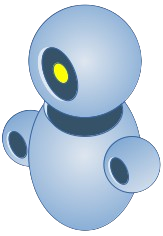
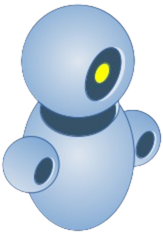
All images references removed from Entity.

diff --git a/game/src/main/java/chon/group/game/core/agent/Entity.java b/game/src/main/java/chon/group/game/core/agent/Entity.java
@@ -6,10 +6,6 @@ import java.util.List;
 import chon.group.game.animation.AnimationSet;
 import chon.group.game.animation.AnimationState;
 import chon.group.game.messaging.Message;
-import javafx.scene.SnapshotParameters;
-import javafx.scene.image.Image;
-import javafx.scene.image.ImageView;
-import javafx.scene.paint.Color;
 
 public abstract class Entity {
 
@@ -27,12 +23,6 @@ public abstract class Entity {
 
     /** entity speed. */
     protected int speed;
-
-    /** Image representing the entity. */
-    protected Image image;
-
-    /** Indicates if the entity is facing left. */
-    private boolean flipped = false;
 
     /** The initial entity's health. */
     private int health;
@@ -67,7 +57,7 @@ public abstract class Entity {
      * @param pathImage the path to the entity's image
      */
     public Entity(int posX, int posY, int height, int width, int speed, int health, Direction direction,
-            String pathImage, boolean flipped,
+            boolean flipped,
             boolean visibleBars) {
         /*
          * Every entity needs at least 1 point of health. Otherwise, it will be
@@ -83,8 +73,7 @@ public abstract class Entity {
         this.health = health;
         this.fullHealth = health;
         this.direction = direction;
-        this.image = new Image(getClass().getResource(pathImage).toExternalForm());
-        this.flipped = flipped;
+        this.getAnimationState().setFlipped(flipped);
         this.visibleBars = visibleBars;
     }
 
@@ -179,42 +168,6 @@ public abstract class Entity {
     }
 
     /**
-     * Gets the entity image.
-     *
-     * @return the entity image
-     */
-    public Image getImage() {
-        return image;
-    }
-
-    /**
-     * Gets the entity flipped status.
-     *
-     * @param image the new image
-     */
-    public void setImage(Image image) {
-        this.image = image;
-    }
-
-    /**
-     * Gets if the entity is flipped.
-     *
-     * @return if the entity is flipped
-     */
-    public boolean isFlipped() {
-        return flipped;
-    }
-
-    /**
-     * Sets the entity flipped status.
-     *
-     * @param flipped the new flipped status
-     */
-    public void setFlipped(boolean flipped) {
-        this.flipped = flipped;
-    }
-
-    /**
      * Gets the entity's health.
      *
      * @return the entity's health
@@ -291,58 +244,68 @@ public abstract class Entity {
     }
 
     /**
-     * Flips the Image horizontally.
-     */
-    public void flipImage() {
-        ImageView flippedImage = new ImageView(image);
-        flippedImage.setScaleX(-1);
-        SnapshotParameters params = new SnapshotParameters();
-        params.setFill(Color.TRANSPARENT);
-        this.flipped = !this.flipped;
-        this.image = flippedImage.snapshot(params, null);
-    }
-
-    /**
      * Moves the entity based on the movement commands provided.
      *
      * @param movements a list of movement directions ("RIGHT", "LEFT", "UP",
      *                  "DOWN")
      */
     public void move(List<Direction> movements) {
+        /* Removes contradictory movements: RIGHT+LEFT and UP+DOWN. */
+        if (movements.contains(Direction.RIGHT) && movements.contains(Direction.LEFT)) {
+            movements.remove(Direction.LEFT);
+        }
+        if (movements.contains(Direction.UP) && movements.contains(Direction.DOWN)) {
+            movements.remove(Direction.DOWN);
+        }
+        /* It verifies if the agent intends to move to the right. */
         if (movements.contains(Direction.RIGHT)) {
-            if (flipped) {
-                this.flipImage();
-                this.animationState.setFlipped(!this.animationState.isFlipped());
+            if (this.animationState.isFlipped()) {
+                this.animationState.setFlipped(false);
             }
+            /* It verifies if it is an up-diagonal movement. */
             if (movements.contains(Direction.RIGHT) && movements.contains(Direction.UP)) {
                 setPosY(posY -= speed);
                 setPosX(posX += speed);
-            } else if (movements.contains(Direction.RIGHT) && movements.contains(Direction.DOWN)) {
+            }
+            /* It verifies if it is a down-diagonal movement. */
+            else if (movements.contains(Direction.RIGHT) && movements.contains(Direction.DOWN)) {
                 setPosY(posY += speed);
                 setPosX(posX += speed);
-            } else {
+            }
+            /* Otherwise, it only has to move to the right. */
+            else {
                 setPosX(posX += speed);
                 setDirection(Direction.RIGHT);
             }
-        } else if (movements.contains(Direction.LEFT)) {
-            if (!flipped) {
-                this.flipImage();
-                this.animationState.setFlipped(!this.animationState.isFlipped());
+        }
+        /* It verifies if the agent intends to move to the left. */
+        if (movements.contains(Direction.LEFT)) {
+            if (!this.animationState.isFlipped()) {
+                this.animationState.setFlipped(true);
             }
+            /* It verifies if it is an up-diagonal movement. */
             if (movements.contains(Direction.LEFT) && movements.contains(Direction.UP)) {
                 setPosY(posY -= speed);
                 setPosX(posX -= speed);
-            } else if (movements.contains(Direction.LEFT) && movements.contains(Direction.DOWN)) {
+            }
+            /* It verifies if it is a down-diagonal movement. */
+            else if (movements.contains(Direction.LEFT) && movements.contains(Direction.DOWN)) {
                 setPosY(posY += speed);
                 setPosX(posX -= speed);
-            } else {
+            }
+            /* Otherwise, it only has to move to the right. */
+            else {
                 setPosX(posX -= speed);
                 setDirection(Direction.LEFT);
             }
-        } else if (movements.contains(Direction.UP)) {
+        }
+        /* It verifies if the agent intends to move up. */
+        else if (movements.contains(Direction.UP)) {
             setPosY(posY -= speed);
             setDirection(Direction.UP);
-        } else if (movements.contains(Direction.DOWN)) {
+        }
+        /* It verifies if the agent intends to move down. */
+        else if (movements.contains(Direction.DOWN)) {
             setPosY(posY += speed);
             setDirection(Direction.DOWN);
         }

diff --git a/game/src/main/java/chon/group/game/core/environment/Level.java b/game/src/main/java/chon/group/game/core/environment/Level.java
@@ -5,6 +5,8 @@ import chon.group.game.core.agent.Direction;
 import chon.group.game.core.agent.Entity;
 import chon.group.game.core.agent.Object;
 import chon.group.game.core.weapon.Shot;
+import javafx.scene.image.Image;
+
 import java.util.ArrayList;
 import java.util.List;
 
@@ -28,10 +30,14 @@ public class Level extends Entity {
     /** Total number of collectible objects in the environment. */
     private int totalCollectibleCount = 0;
 
+    /** Image representing the entity. */
+    protected Image image;
+
     public Level(int posX, int posY, int height, int width, int topY, int bottomY, String pathImage) {
-        super(posX, posY, height, width, 0, 0, Direction.IDLE, pathImage, false, false);
+        super(posX, posY, height, width, 0, 0, Direction.IDLE, false, false);
         this.topY = topY;
         this.bottomY = bottomY;
+        this.image = new Image(getClass().getResource(pathImage).toExternalForm());
         this.agents = new ArrayList<Agent>();
         this.objects = new ArrayList<Object>();
         this.shots = new ArrayList<Shot>();
@@ -75,6 +81,24 @@ public class Level extends Entity {
 
     public void setShots(List<Shot> shots) {
         this.shots = shots;
+    }
+
+    /**
+     * Gets the entity image.
+     *
+     * @return the entity image
+     */
+    public Image getImage() {
+        return image;
+    }
+
+    /**
+     * Gets the entity flipped status.
+     *
+     * @param image the new image
+     */
+    public void setImage(Image image) {
+        this.image = image;
     }
 
     /**

diff --git a/game/src/main/java/chon/group/game/domain/weapon/Lancer.java b/game/src/main/java/chon/group/game/domain/weapon/Lancer.java
@@ -2,10 +2,13 @@ package chon.group.game.domain.weapon;
 
 import java.util.List;
 
+import chon.group.game.animation.Animation;
+import chon.group.game.animation.AnimationType;
 import chon.group.game.core.agent.Direction;
 import chon.group.game.core.weapon.Shot;
 import chon.group.game.core.weapon.Weapon;
 import chon.group.game.messaging.Message;
+import javafx.scene.image.Image;
 
 public class Lancer extends Weapon {
 
@@ -20,7 +23,15 @@ public class Lancer extends Weapon {
             posX += 64 + 1;
         else
             posX -= 64 + 1;
-        return new Fireball(posX,
+        /*
+         * Animation frames for fireball. That is not the best solution. It needs to
+         * change.
+         */
+        Animation fireballShot = new Animation();
+        fireballShot.getFrames().add(new Image(
+                getClass().getResource("/images/weapons/fireball/fireball001.png").toExternalForm()));
+        Fireball fireball = new Fireball(
+                posX,
                 posY + 30,
                 42,
                 64,
@@ -30,6 +41,8 @@ public class Lancer extends Weapon {
                 "/images/weapons/fireball/fireball001.png",
                 false,
                 500);
+        fireball.getAnimationSet().add(AnimationType.IDLE, fireballShot);
+        return fireball;
     }
 
     @Override

diff --git a/game/src/main/java/chon/group/game/core/agent/Agent.java b/game/src/main/java/chon/group/game/core/agent/Agent.java
@@ -48,7 +48,7 @@ public class Agent extends Entity {
      */
     public Agent(int posX, int posY, int height, int width, int speed, int health, Direction direction,
             String pathImage, boolean flipped, boolean visibleBars) {
-        super(posX, posY, height, width, speed, health, direction, pathImage, flipped, visibleBars);
+        super(posX, posY, height, width, speed, health, direction, flipped, visibleBars);
         this.energy = 1.0;
         this.fullEnergy = 1.0;
         this.recoveryFactor = 0.0002;
@@ -205,7 +205,7 @@ public class Agent extends Entity {
     }
 
     public Shot useWeapon() {
-        Direction direction = this.isFlipped() ? Direction.LEFT : Direction.RIGHT;
+        Direction direction = this.getAnimationState().isFlipped() ? Direction.LEFT : Direction.RIGHT;
         if (this.energy >= this.getWeapon().getEnergyCost()) {
             this.consumeEnergy(this.getWeapon().getEnergyCost());
             return this.weapon.fire(this.getPosX(), this.getPosY(), direction);

diff --git a/game/src/main/java/chon/group/game/drawer/JavaFxMediator.java b/game/src/main/java/chon/group/game/drawer/JavaFxMediator.java
@@ -294,7 +294,7 @@ public class JavaFxMediator implements EnvironmentDrawer {
         Iterator<Shot> iterator = this.environment.getCurrentLevel().getShots().iterator();
         while (iterator.hasNext()) {
             Shot shot = iterator.next();
-            drawer.drawImage(shot.getImage(),
+            drawer.drawImage(shot.getAnimationState().getCurrentImage(),
                     (int) this.environment.getCamera().updateEntity(shot),
                     shot.getPosY(),
                     shot.getWidth(),

diff --git a/game/src/main/java/chon/group/game/core/agent/Object.java b/game/src/main/java/chon/group/game/core/agent/Object.java
@@ -36,7 +36,7 @@ public class Object extends Entity {
             boolean collectible,
             boolean destructible,
             double attractionRadius) {
-        super(posX, posY, height, width, speed, health, direction, pathImage, flipped, visibleBars);
+        super(posX, posY, height, width, speed, health, direction, flipped, visibleBars);
         this.collectible = collectible;
         this.destructible = destructible;
         this.attractionRadius = attractionRadius;

diff --git a/game/src/main/java/chon/group/game/core/weapon/Shot.java b/game/src/main/java/chon/group/game/core/weapon/Shot.java
@@ -14,7 +14,7 @@ public abstract class Shot extends Entity {
     public Shot(int posX, int posY, int height, int width, int speed, int health, Direction direction, String pathImage,
             boolean flipped,
             int damage) {
-        super(posX, posY, height, width, speed, health, direction, pathImage, flipped, false);
+        super(posX, posY, height, width, speed, health, direction, flipped, false);
         this.damage = damage;
     }
 

diff --git a/game/src/main/java/chon/group/game/core/weapon/Weapon.java b/game/src/main/java/chon/group/game/core/weapon/Weapon.java
@@ -9,7 +9,7 @@ public abstract class Weapon extends Entity {
 
     public Weapon(int posX, int posY, int height, int width, int speed, int health, double energyCost, String pathImage,
             boolean flipped) {
-        super(posX, posY, height, width, speed, health, Direction.IDLE, pathImage, flipped, false);
+        super(posX, posY, height, width, speed, health, Direction.IDLE, flipped, false);
         this.energyCost = energyCost;
     }
 

diff --git a/game/src/main/java/chon/group/game/GameSet.java b/game/src/main/java/chon/group/game/GameSet.java
@@ -185,7 +185,7 @@ public class GameSet {
                                 500,
                                 Direction.IDLE,
                                 "/images/agents/chonBot.png",
-                                true,
+                                false,
                                 true);
                 chonBot1.getAnimationSet().add(AnimationType.IDLE, idleChonBot);
                 Agent chonBot2 = new Agent(

diff --git a/game/src/main/java/chon/group/game/states/RunningState.java b/game/src/main/java/chon/group/game/states/RunningState.java
@@ -72,6 +72,10 @@ public class RunningState implements GameState {
         for (Object object : game.getEnvironment().getCurrentLevel().getObjects()) {
             game.getAnimator().update(object);
         }
+        /* It animates all shots. */
+        for (Shot shot : game.getEnvironment().getCurrentLevel().getShots()) {
+            game.getAnimator().update(shot);
+        }
     }
 
     @Override

diff --git a/game/src/main/java/chon/group/game/domain/weapon/Cannon.java b/game/src/main/java/chon/group/game/domain/weapon/Cannon.java
@@ -28,7 +28,8 @@ public class Cannon extends Weapon {
                 0,
                 direction,
                 "/images/weapons/missile/missile001.png",
-                false, 100);
+                false,
+                100);
     }
 
     @Override
